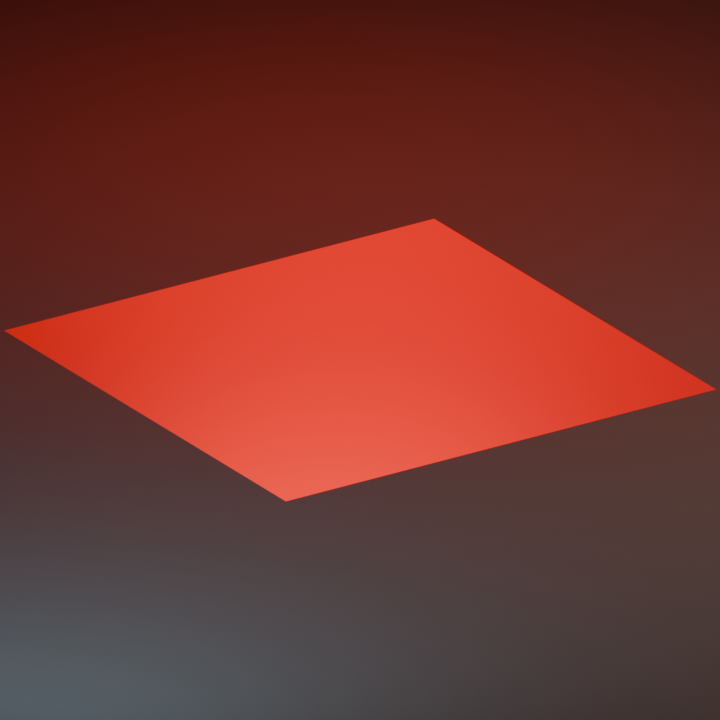
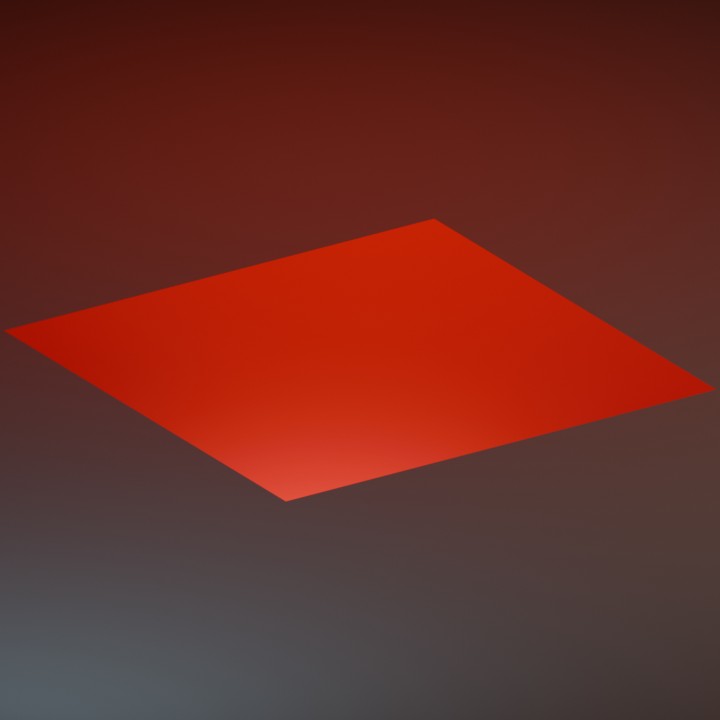
Finish flat blood sea with dedicated surface material

Changed region(s): [[0.0, 0.3056, 1.0, 0.7028]]

diff --git a/tools/blender/blood_sea.py b/tools/blender/blood_sea.py
@@ -1,4 +1,4 @@
-"""A flat 20 m blood tile. Two triangles deliberately leave waves to the game."""
+"""A flat twenty-metre blood surface, ready for the game's water material."""
 import sys
 from pathlib import Path
 sys.path.insert(0, str(Path(__file__).resolve().parent))
@@ -7,8 +7,15 @@ from common import *
 
 def build():
     reset('blood_sea')
+    material=MATERIALS['blood']
+    material.name='blood_sea_surface'
+    material.diffuse_color=(.255,.004,.010,1)
+    bsdf=material.node_tree.nodes.get('Principled BSDF')
+    bsdf.inputs['Base Color'].default_value=material.diffuse_color
+    bsdf.inputs['Metallic'].default_value=.10
+    bsdf.inputs['Roughness'].default_value=.22
     mesh('blood_sea',[(-10,-10,0),(10,-10,0),(10,10,0),(-10,10,0)],[(0,1,2,3)],'blood',uv=True)
-    deliver('blood_sea',notes='Flat 20 x 20 m plane, 2 triangles. Tile at water height y=0. No baked waves. Unity can replace the material with animated blood.')
+    deliver('blood_sea',notes='Flat 20 x 20 m plane, two triangles, UVs span 0..1. Deep saturated blood colour and low roughness. No baked ripples or waves. Tile at water height Unity y=0, or y=0.36 to meet terrain_shore. The game may replace the material with animated blood.')
 
 if __name__=='__main__':
     build()

diff --git a/assets/previews/README.md b/assets/previews/README.md
@@ -33,7 +33,7 @@ The player death descends to both knees, opens the arms and tips the head back, 
 | mural_slab | [mural_slab](mural_slab_views.png) | — |
 | wreck_debris | [wreck_debris](wreck_debris_views.png) | — |
 | terrain_shore | [terrain_shore](terrain_shore_views.png) | — |
-| blood_sea | Blockout review pending | — |
+| blood_sea | [blood_sea](blood_sea_views.png) | — |
 
 ![Escape over the blood sea](ship_escape.png)
 
